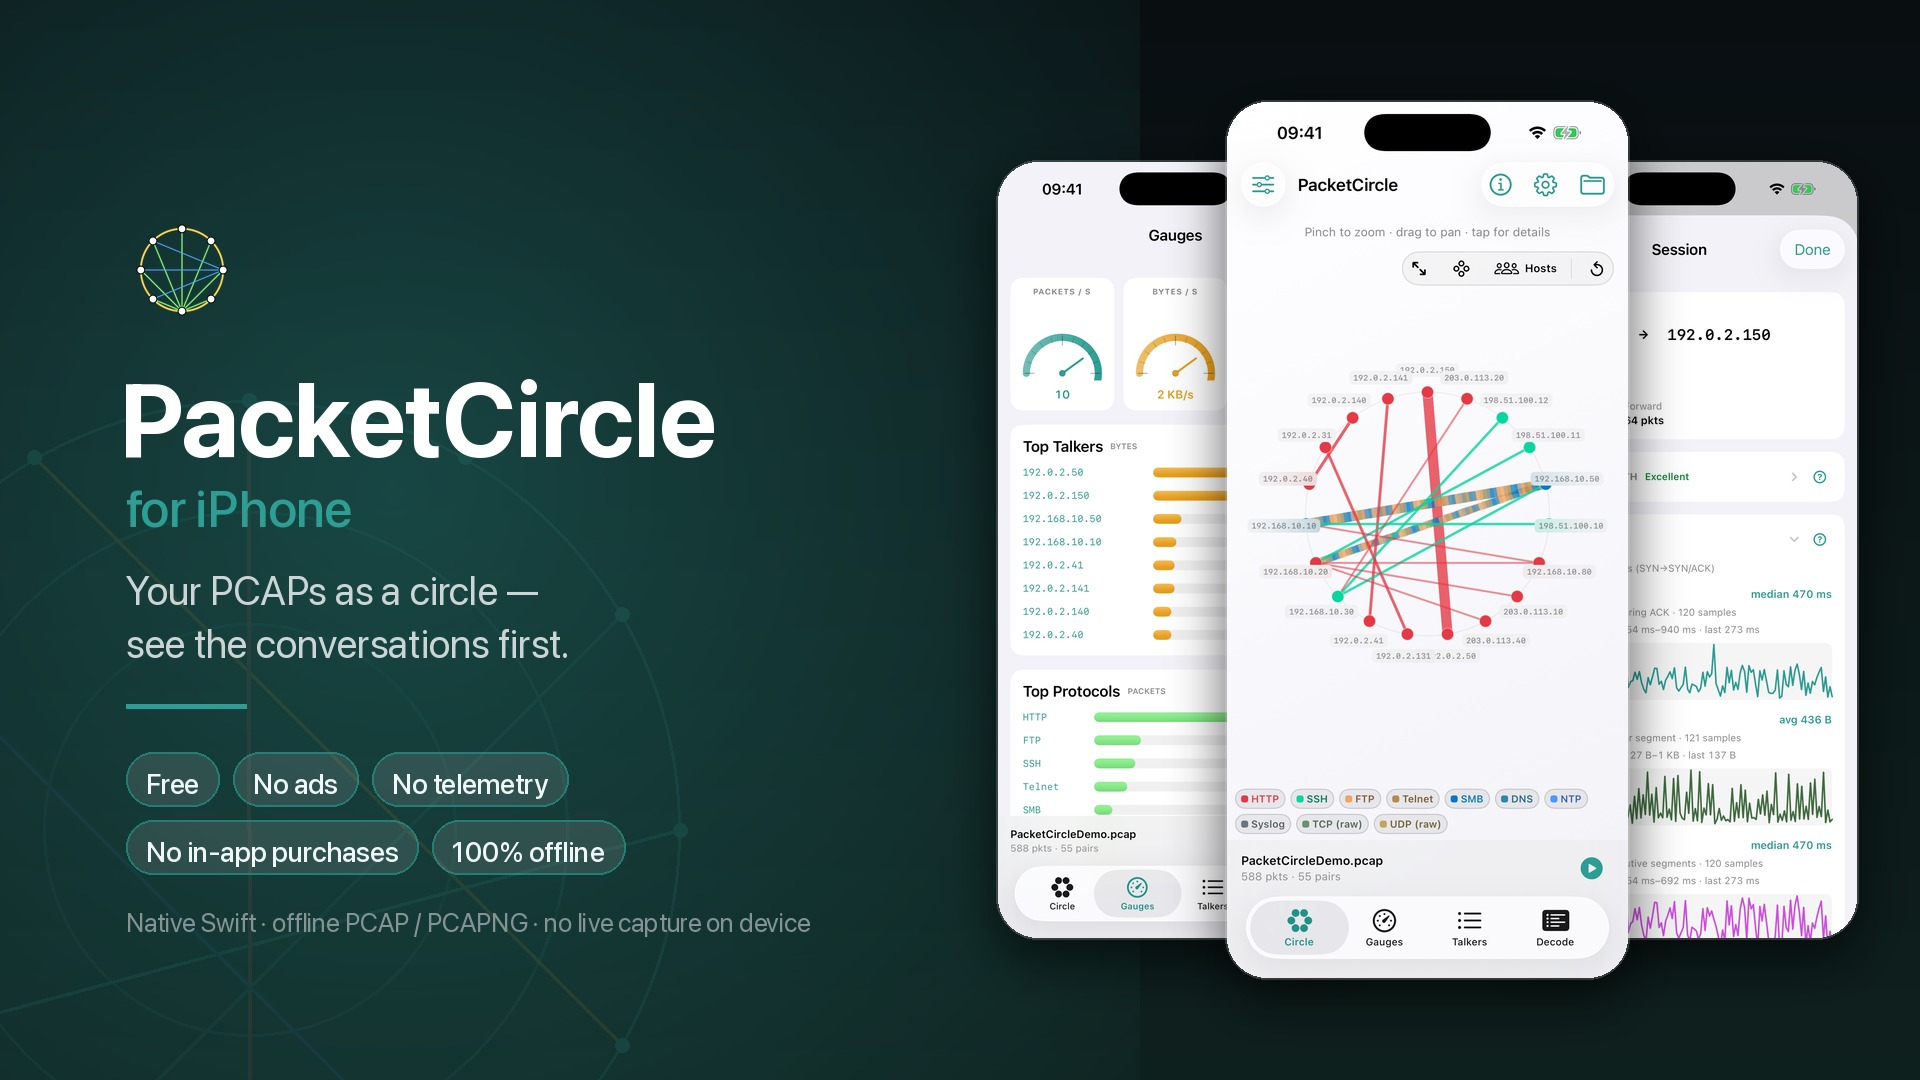
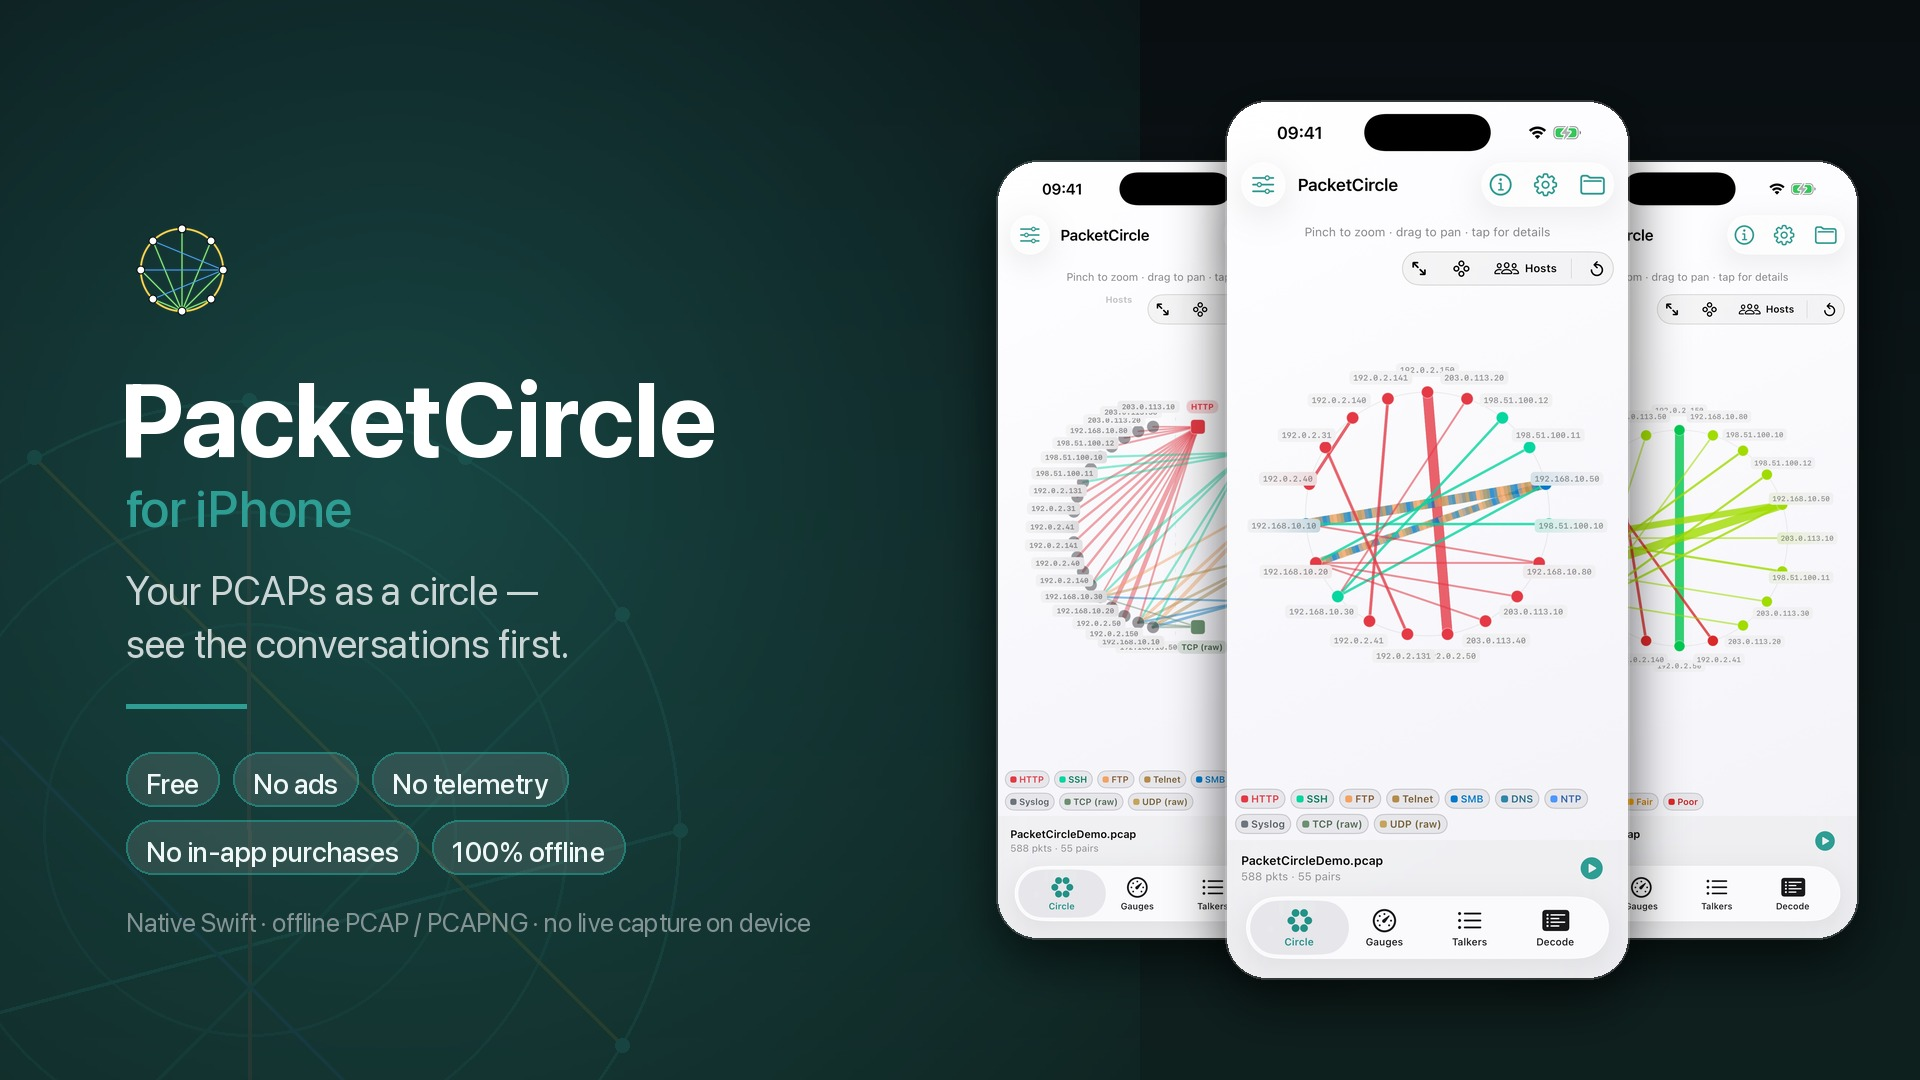
Add Quality circle shot and explain Protocol vs Quality coloring.
Show the hosts/services/quality ring trio in the article and banner, and document what Color → Quality does for triage.

diff --git a/docs/articles/LINKEDIN-PacketCircle-iOS.md b/docs/articles/LINKEDIN-PacketCircle-iOS.md
@@ -66,13 +66,20 @@ For an iPhone app that normal humans can actually install, the **App Store is ba
 The upside of that constraint: the decodes are mine, they're limited on purpose, and I can put them on the Store with a clear conscience.
 
 <p align="center">
-  <img src="../assets/ios-circle.jpg" alt="Circle view: node-to-node conversations with protocol legend" width="300">
-  <img src="../assets/ios-services.jpg" alt="Services view: hosts on the left, services on the right" width="300">
+  <img src="../assets/ios-circle.jpg" alt="Circle view: node-to-node conversations colored by protocol" width="270">
+  <img src="../assets/ios-services.jpg" alt="Services view: hosts on the left, services on the right" width="270">
+  <img src="../assets/ios-quality.jpg" alt="Quality view: same hosts ring, edges colored by TCP session health" width="270">
 </p>
 
 ### What it actually does today
 
-Load a capture, and PacketCircle turns it into a **circle** of talkers you can poke at with your thumb: tap a node or an edge, filter by protocol chips, then drill into **session health**, skim a **decode** tree, or **follow a TCP stream** — all on the phone.
+Load a capture, and PacketCircle turns it into a **circle** of talkers you can poke at with your thumb: tap a node or an edge, filter by the legend chips, then drill into **session health**, skim a **decode** tree, or **follow a TCP stream** — all on the phone.
+
+Two switches on the circle change what you're *looking for*:
+
+- **Color → Protocol** paints edges by application (HTTP, SSH, DNS…). Good for “who talks which language.”
+- **Color → Quality** paints the *same* host nodes by native TCP session health — Excellent / Good / Fair / Poor. Sick conversations light up red without opening Wireshark. The legend chips become grade filters, so you can solo Poor and hide the noise.
+- **Hosts vs Services** rearranges the ring: hosts around the rim (node-to-node), or hosts on one side and service ports on the other (who speaks HTTP/SSH/…).
 
 No file handy? There's a **built-in demo** capture that replays as a one-minute loop so you can see the whole thing move without a lab network.
 
@@ -81,7 +88,7 @@ No file handy? There's a **built-in demo** capture that replays as a one-minute 
 ### The 2-minute tour
 
 1. **Open** a capture or hit **Demo Mode**.  
-2. Play in the **Circle**: tap nodes/edges, use the protocol chips as legend *and* filter.  
+2. Play in the **Circle**: tap nodes/edges; flip **Color** between Protocol and Quality; use the legend chips as filter. Hosts vs Services rearranges the ring.  
 3. Peek at **Gauges** for rates and top talkers/protocols.  
 4. Browse **Talkers** for the conversation list, or **Decode** for frames + details/hex.  
 5. Open **Session details** for TCP health, the exchange ladder, and app decode.  
@@ -103,7 +110,7 @@ No file handy? There's a **built-in demo** capture that replays as a one-minute 
 |------|----------------|
 | **Open** | PCAP / PCAPNG from Files / share sheet — fully offline |
 | **Demo** | Bundled demo capture, ~1‑minute loop, replayable |
-| **Circle** | Conversation graph, protocol colors, Top‑N focus |
+| **Circle** | Conversation graph; Protocol *or* Quality edge colors; Hosts / Services layout; Top‑N focus |
 | **Gauges** | Packet/byte/error rates, top talkers & protocols |
 | **Talkers** | Conversation list |
 | **Decode** | Packet list, details tree, hex/ASCII (capped frames) |
@@ -130,7 +137,7 @@ No file handy? There's a **built-in demo** capture that replays as a one-minute 
 ### The use cases that make people lean in
 
 **1. "Just show me who's talking."**  
-You grabbed a PCAP off a SPAN/TAP/laptop. On the train home — or mid-meeting — open it on the phone and *see* the conversation map: who dominates, which protocols, which pair looks sick with retransmits, RSTs and a bad health score. No laptop, no boot time.
+You grabbed a PCAP off a SPAN/TAP/laptop. On the train home — or mid-meeting — open it on the phone and *see* the conversation map. Flip to **Quality** coloring and the sick pairs light up red (retransmits, RSTs, zero-window, poor score) without leaving the circle. No laptop, no boot time.
 
 **2. Teaching without a lab.**  
 Demo Mode is a story told in a circle — HTTP, DNS, SSH, Telnet, SMB, all lit up. Perfect for showing a junior (or a skeptical manager) what "conversation-first" troubleshooting means, without wiring up a network.
